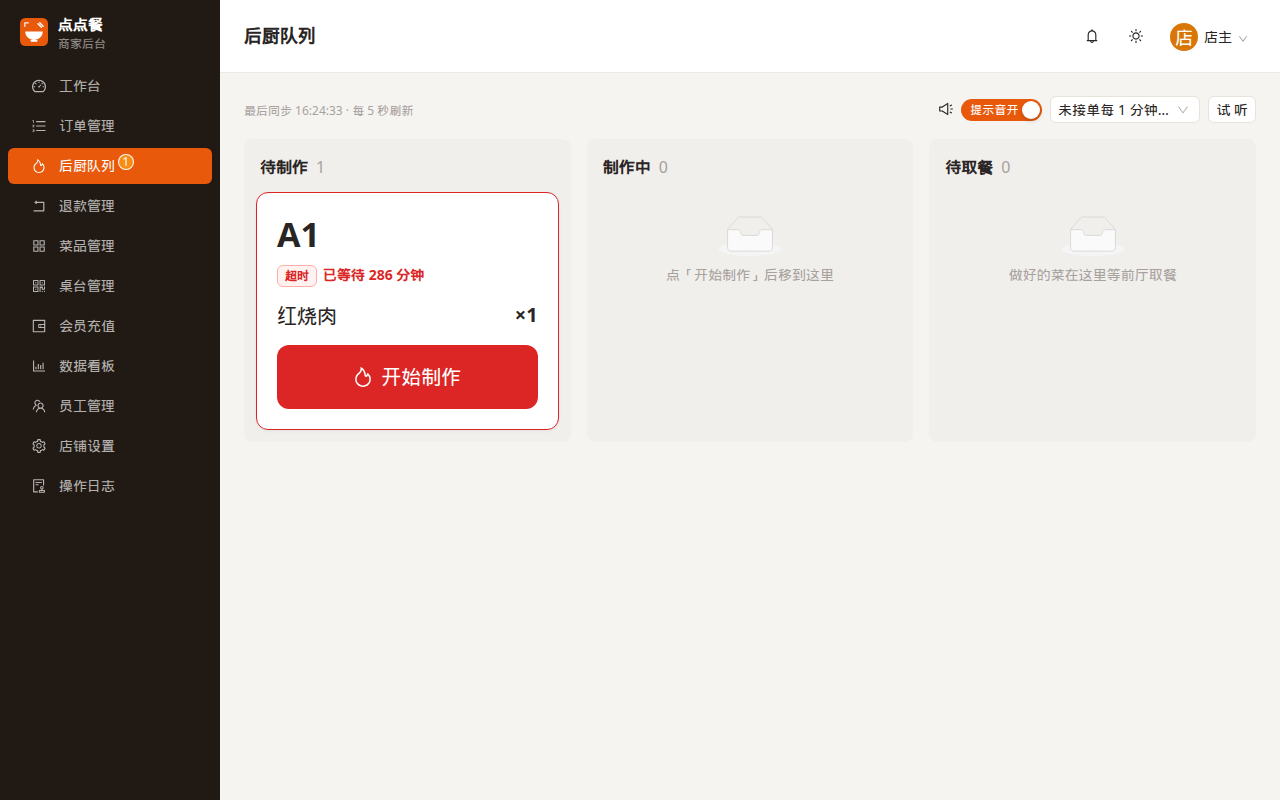
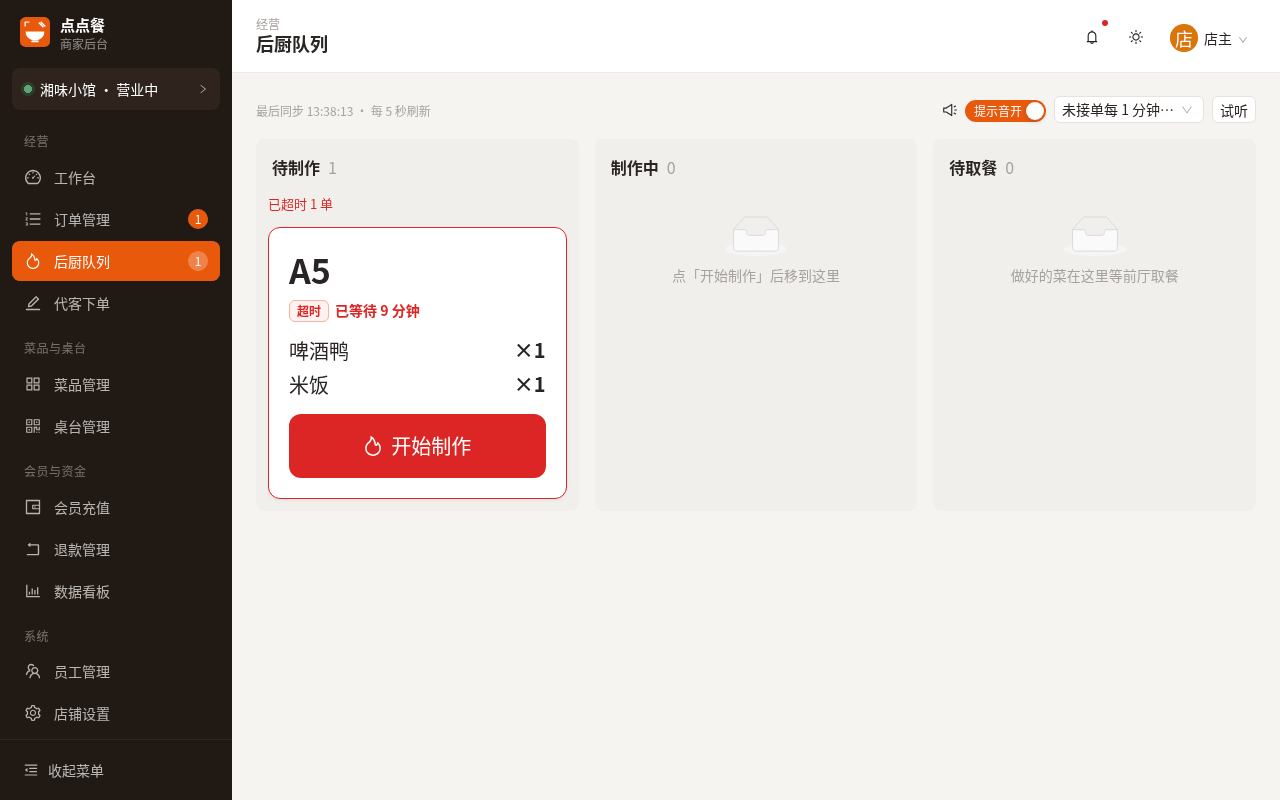
docs: 更新功能说明、演示数据与部署说明，重拍 README 截图

diff --git a/README.md b/README.md
@@ -23,15 +23,28 @@
       <br />后厨队列：待制作，超时订单标红
     </td>
   </tr>
+  <tr>
+    <td width="400" valign="top">
+      <img src="docs/screenshots/merchant-dashboard.png" width="400" alt="店主工作台" />
+      <br />店主工作台：今日实收、分时趋势、待处理、热销与桌台
+    </td>
+    <td width="400" valign="top">
+      <img src="docs/screenshots/merchant-mobile.png" width="400" alt="商家后台手机版" />
+      <br />手机上的商家后台：底部 Tab、卡片式待接单
+    </td>
+  </tr>
 </table>
 
 ## 功能
 
 - 扫桌码进入 H5 菜单，选规格后用会员余额支付。没有微信或支付宝在线收款。
-- 商家接单、后厨制作、送达；超时未接单会自动取消并退款。
+- 商家接单、后厨制作、送达；超时未接单会自动取消并退款。前台可以代客下单、先吃后付。
 - 退款退回会员余额，店主审核。
-- 菜品、桌台二维码、会员充值、员工账号。
+- 菜品、桌台二维码、会员充值、员工账号、操作审计日志。
+- 店主工作台：今日实收、分时趋势（对比昨日）、待处理、热销、桌台和出餐用时。
+- 商家后台适配手机（底部 Tab + 卡片列表），支持暗色模式；新订单有提示音和顶部横幅。
 - 店主、前厅、后厨看到的菜单和接口不同。
+- 日期和时间一律按门店时区（Asia/Shanghai）显示和统计，店主在外地打开也不会错位。
 
 ## 技术栈
 
@@ -65,6 +78,8 @@ docker compose -f deploy/docker-compose.dev.yml up -d
 | 商家后台 | http://localhost:5173 ，`admin` / `admin123` |
 | 顾客 H5 | http://127.0.0.1:3000/h5/?token=dev-table-a1 |
 | 会员 | `13800000001` / `staff123`，余额 100 元 |
+
+开发库会写入一套演示数据：5 个分类、17 道带图菜品（含规格和小料）、A1–A3、B1–B4、包间1 共 8 张桌台。菜品图是 AI 生成的演示图，只用于本地演示，见 [server/src/main/resources/dev-uploads/demo/README.md](server/src/main/resources/dev-uploads/demo/README.md)。上面的截图来自生产镜像（`deploy/nginx/Dockerfile` 构建的静态站点）。
 
 后端默认端口是 `server.port`（8080）。前端把 `/api` 代理到 `API_PROXY_TARGET`。换端口时两个前端一起改。Docker 29 跑测试要加 `-DargLine="-Dapi.version=1.44"`，否则集成测试会被跳过。
 
